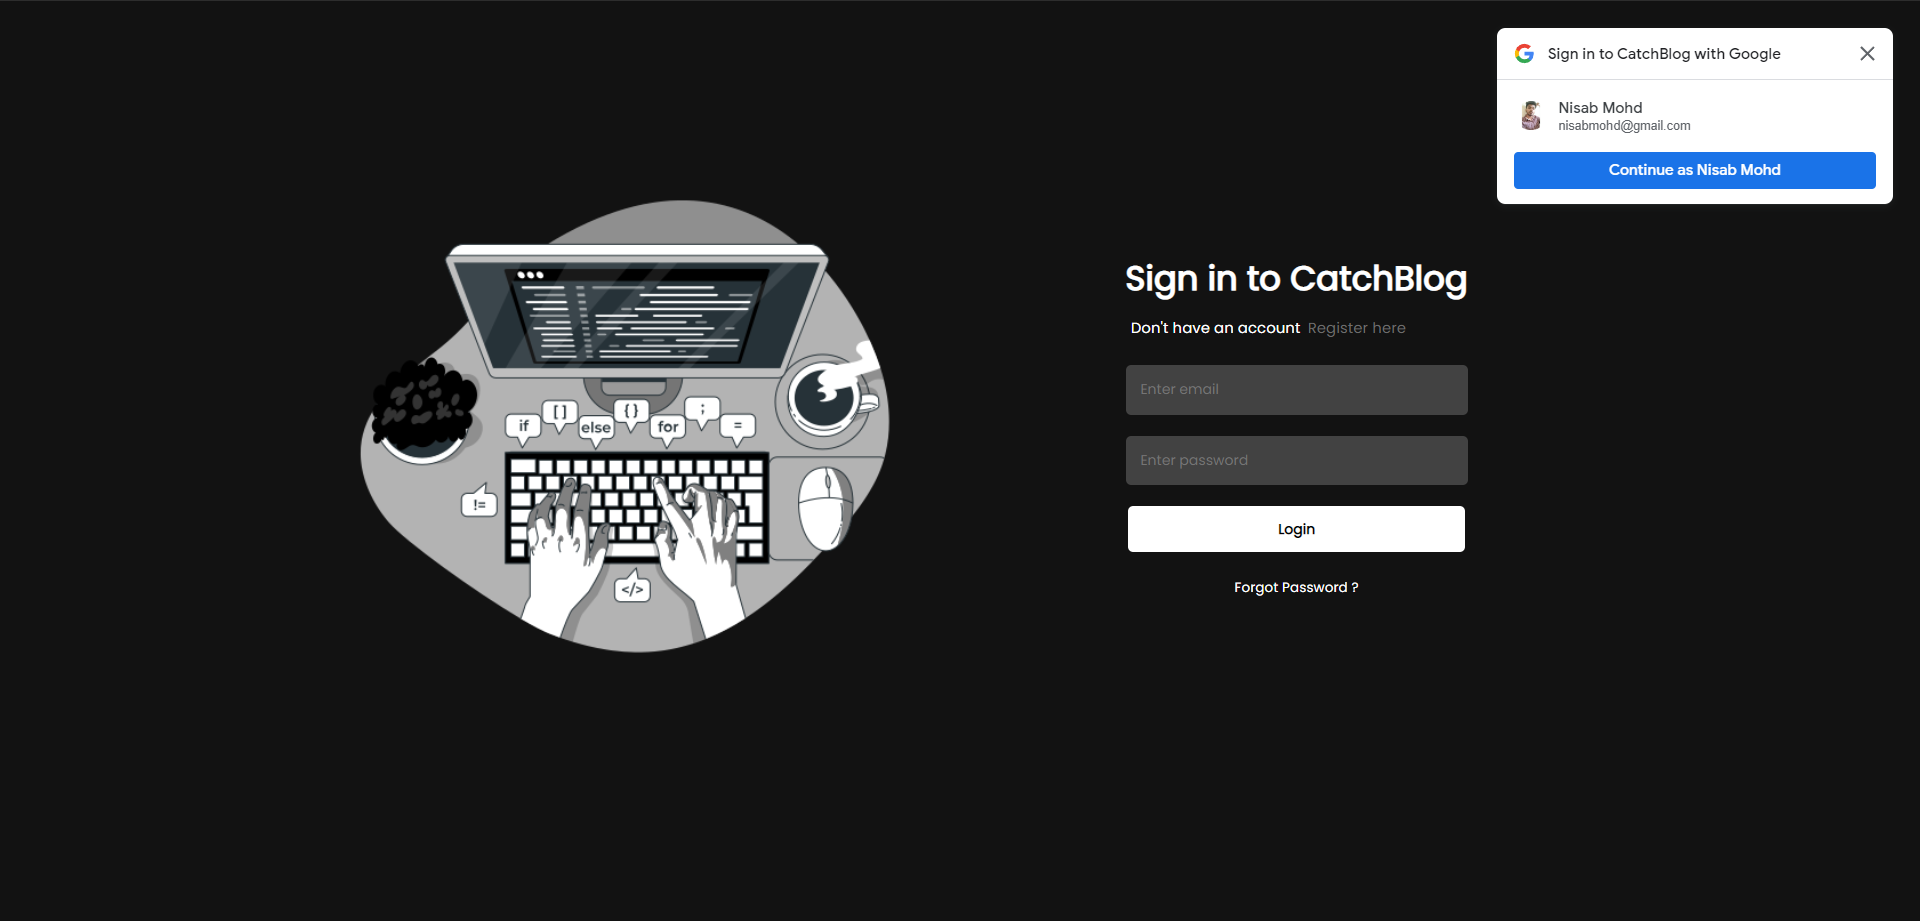
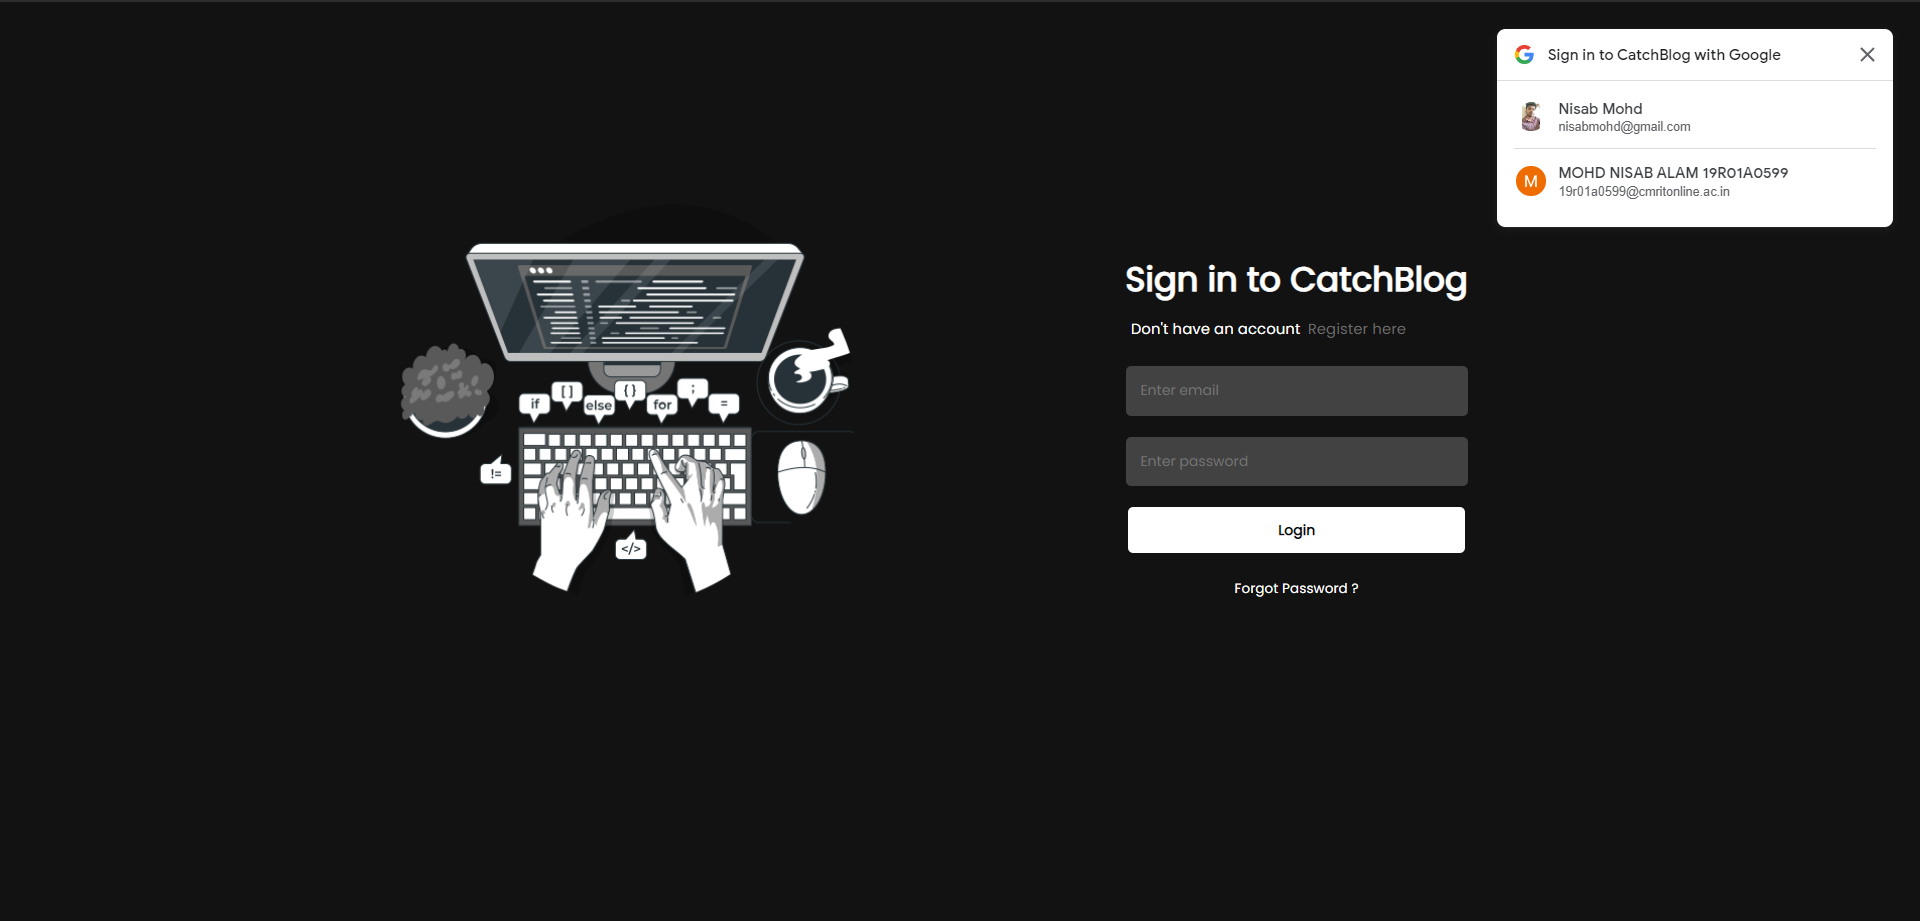
login page img bg change

diff --git a/client/src/Pages/Login.js b/client/src/Pages/Login.js
@@ -67,7 +67,7 @@ export const Login = () => {
         <div className="containerlogin">
             <Toaster />
             <div className="leftlogin">
-                <img style={{ marginTop: '-25px', minWidth: '400px', zIndex: '-99' ,width:'85%',marginBottom:'0px'}} src={loginimg} alt="" />
+                <img style={{ marginTop: '-15px', minWidth: '400px', zIndex: '-99' ,width:'75%',marginBottom:'0px'}} src={loginimg} alt="" />
             </div>
             <div className="rightlogin">
                 <div className="headerlogin">

diff --git a/client/src/Pages/Signup.js b/client/src/Pages/Signup.js
@@ -50,7 +50,7 @@ export const Signup = () => {
     <div className="containerlogin">
       <Toaster />
       <div className="leftlogin">
-        <img style={{ marginTop: '25px', minWidth: '400px', zIndex: '-99' ,width:'85%' }} src={loginimg} alt="" />
+        <img style={{ marginTop: '45px', minWidth: '400px', zIndex: '-99' ,width:'74%' }} src={loginimg} alt="" />
       </div>
       <div className="rightlogin">
         <div className="headerlogin">
